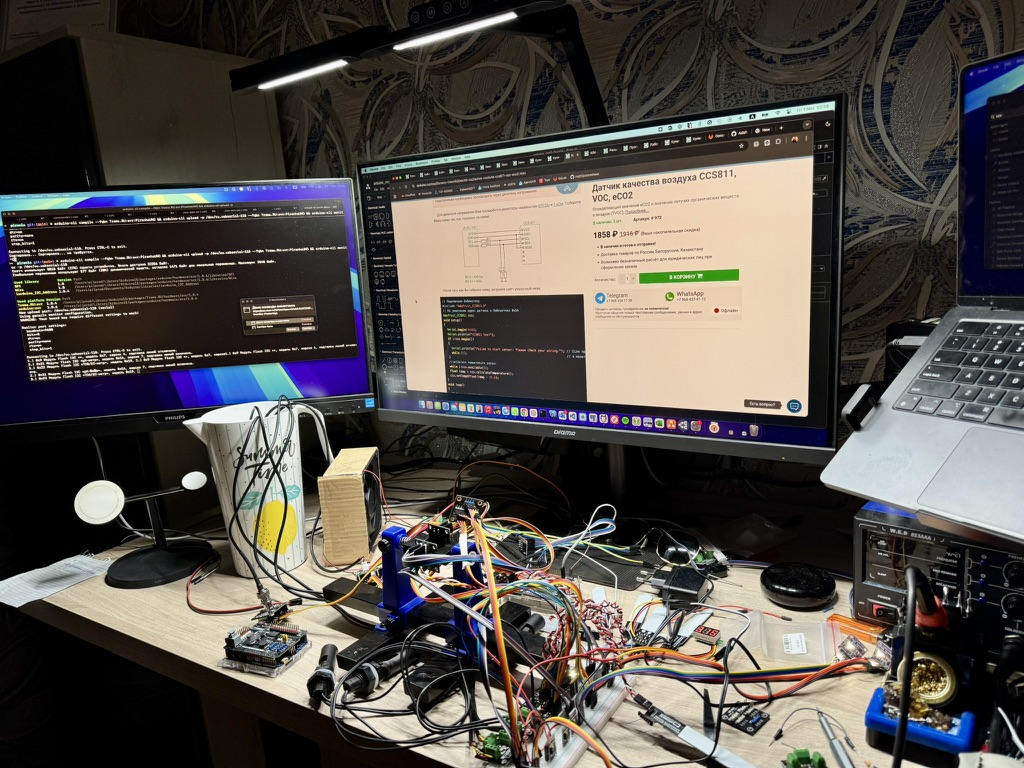
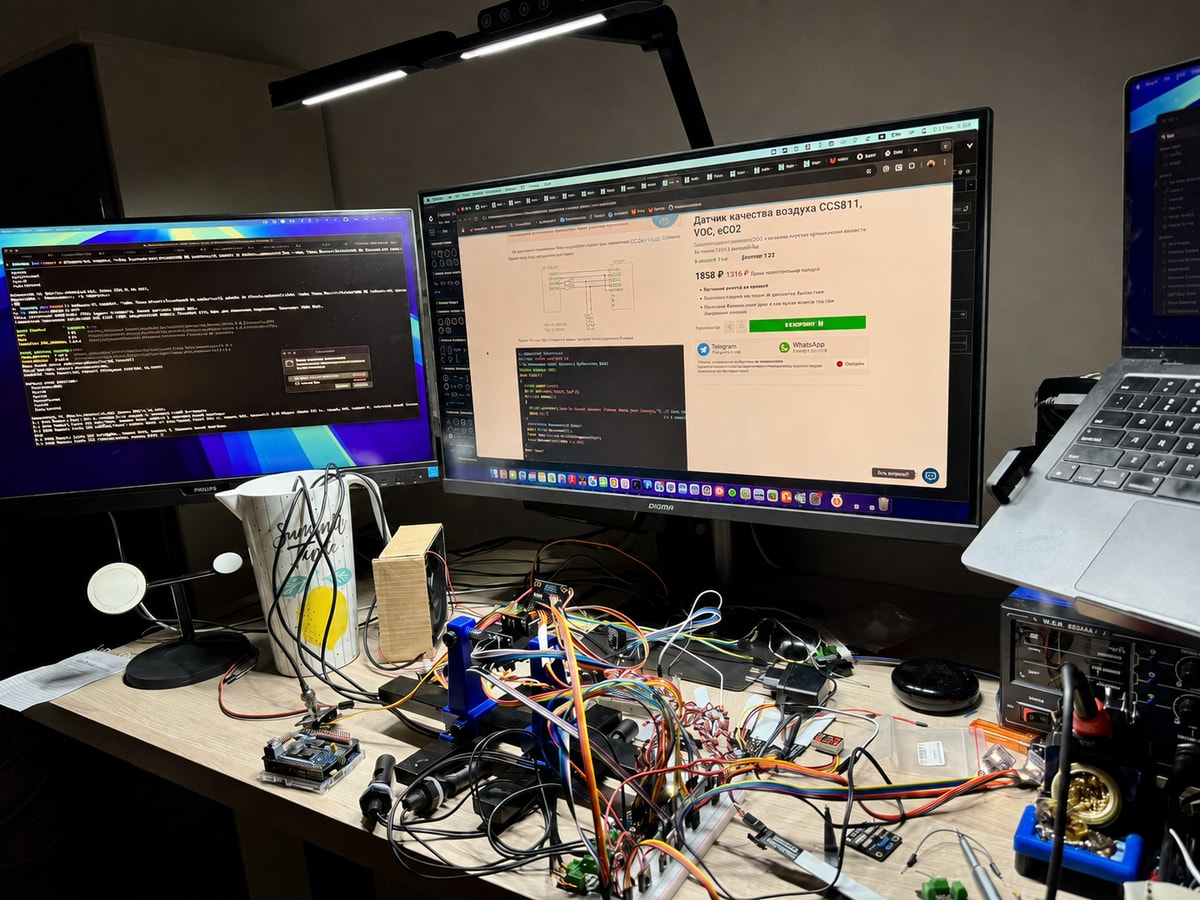
Expand lab gallery with privacy-edited photos

diff --git a/README.md b/README.md
@@ -15,26 +15,65 @@ The controllers use Python, `paho-mqtt`, JSON, command-line arguments, state sub
 
 Photos from the original personal R&D installation. They show the wider hardware and Home Assistant environment; this repository contains only the controller and integration snapshot described above.
 
+Five installation and workbench photographs have AI-retouched backgrounds or identifying areas for privacy and presentation.
+
+### Monitoring and control
+
 <p><img src="docs/images/home-assistant-dashboard.jpg" alt="Home Assistant dashboard displaying climate and water-system measurements, lighting controls and device states" width="900"></p>
 
 **Home Assistant dashboard** — the interface for climate, lighting and water-system monitoring and control.
 
+### Installation and assembly
+
 <table>
   <tr>
-    <td width="33%"><img src="docs/images/lighting-ventilation.jpg" alt="Suspended LED lighting, ventilation equipment and wiring in the experimental growing enclosure" width="260"></td>
-    <td width="33%"><img src="docs/images/water-system.jpg" alt="Water-system assembly with reservoirs, dosing pumps, valves, tubing and wiring" width="260"></td>
-    <td width="33%"><img src="docs/images/root-zone.jpg" alt="Root development observed above the aeroponic chamber" width="260"></td>
+    <td width="50%"><img src="docs/images/lighting-ventilation.jpg" alt="Suspended lighting, ventilation equipment and wiring inside the experimental enclosure" width="420"></td>
+    <td width="50%"><img src="docs/images/water-system.jpg" alt="Water-system assembly with reservoirs, pumps, valves, tubing and wiring" width="420"></td>
   </tr>
   <tr>
     <td><strong>Lighting &amp; ventilation</strong><br>Enclosure, suspended fixtures and wiring.</td>
     <td><strong>Water system</strong><br>Reservoirs, pumps, valves and circulation plumbing.</td>
-    <td><strong>Root-zone observation</strong><br>A visual record from the experiments.</td>
+  </tr>
+  <tr>
+    <td width="50%"><img src="docs/images/enclosure-camera.jpg" alt="Camera and equipment mounted in the experimental enclosure" width="420"></td>
+    <td width="50%"><img src="docs/images/power-shield.jpg" alt="Commercial power shield board integrated into the prototype" width="420"></td>
+  </tr>
+  <tr>
+    <td><strong>Enclosure camera</strong><br>Camera placement within the installation.</td>
+    <td><strong>Power shield</strong><br>A commercial board integrated into the electronics assembly.</td>
   </tr>
 </table>
 
-<p><img src="docs/images/electronics-workbench.jpg" alt="Electronics workbench with development boards, sensors, wiring and soldering tools during prototyping" width="900"></p>
+### Wiring and prototypes
 
-**Electronics prototyping** — sensor and controller development, wiring and soldering at the workbench.
+<p><img src="docs/images/electronics-workbench.jpg" alt="Electronics workbench with development boards, sensors, wiring and soldering tools" width="900"></p>
+
+**Electronics workbench** — component wiring and soldering during sensor and controller prototyping.
+
+<p><img src="docs/images/wiring-diagram.jpg" alt="Original wiring diagram showing connections between system components" width="900"></p>
+
+**Wiring diagram** — component connections documented during system design.
+
+<p><img src="docs/images/breadboard-prototype.jpg" alt="Breadboard prototype with connected electronic components and jumper wires" width="600"></p>
+
+**Breadboard prototype** — early component connections before final assembly.
+
+### Root-zone observations
+
+<table>
+  <tr>
+    <td width="50%"><img src="docs/images/root-zone.jpg" alt="Roots observed above an aeroponic chamber" width="420"></td>
+    <td width="50%"><img src="docs/images/root-chamber.jpg" alt="Root chamber and its contents during the experiments" width="420"></td>
+  </tr>
+  <tr>
+    <td><strong>Root-zone overview</strong><br>A visual record from the experiments.</td>
+    <td><strong>Root chamber</strong><br>The chamber used for root-zone observations.</td>
+  </tr>
+</table>
+
+<p><img src="docs/images/root-inspection.jpg" alt="Wide close-up of roots, cropped from the original inspection photograph" width="900"></p>
+
+**Root inspection** — a closer look at root development, cropped from the original photograph.
 
 ## Configuration
 
